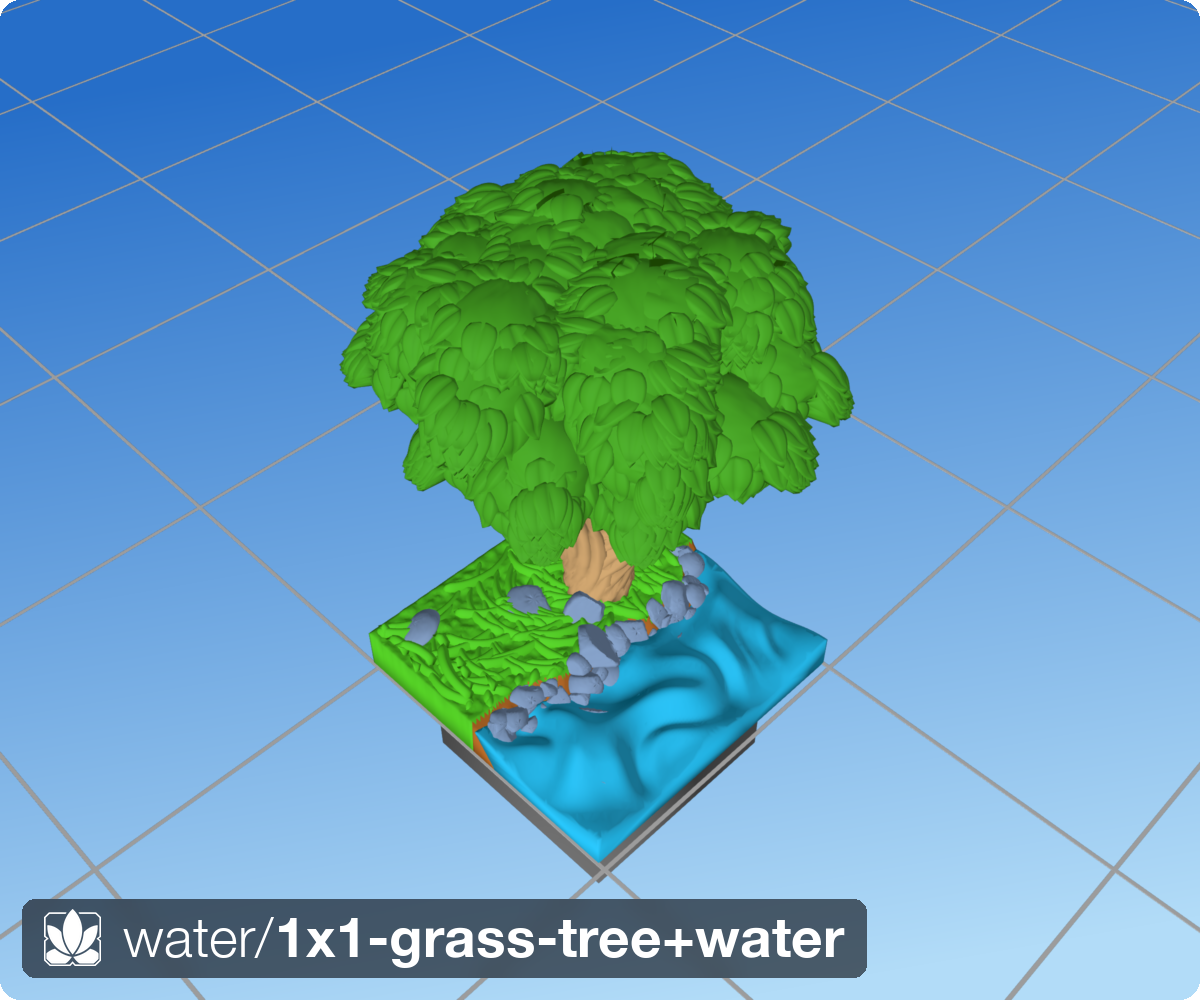
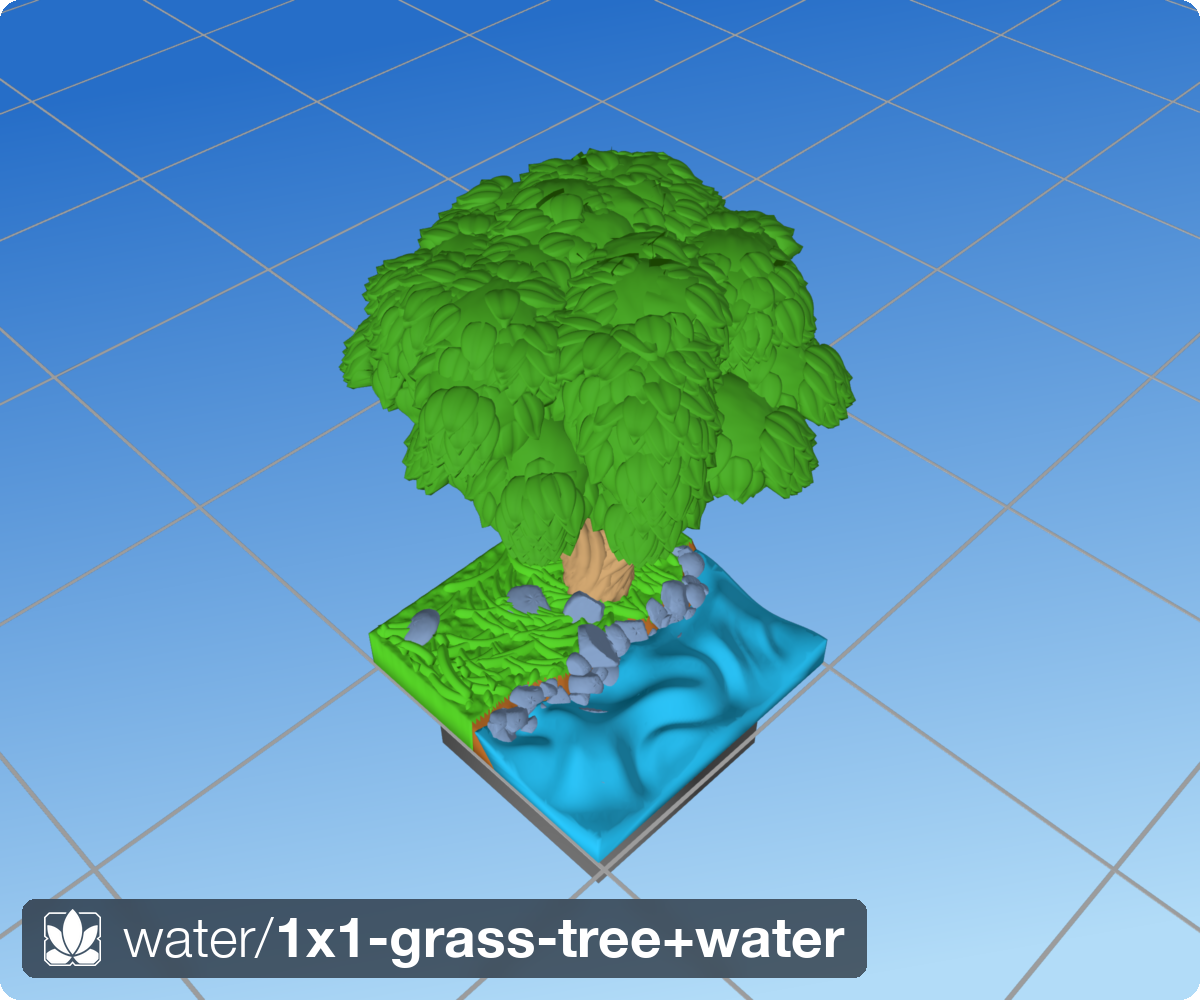
Update tree leaf cap mesh

diff --git a/src/dharmatiles/trees/mesh.py b/src/dharmatiles/trees/mesh.py
@@ -1158,21 +1158,105 @@ def _build_foliage_cluster_mesh(
                     cluster_radius_mm=r_tip,
                 )
 
-        # Cap: random leaves spread over the apex polar zone.
+        # Cap: structured polar rings over the apex zone.  This used to be
+        # random polar scatter, which could place two cap leaves almost on top
+        # of each other even when the main leaf field was a jittered grid.
         # Pass r_tip for the same reason as the near-apex rings: the forward
         # dome is a sphere of radius r_tip, so even near-polar leaves attach
         # correctly when the dome radius is used instead of the tiny ring radius.
-        for ci in range(max(0, int(leaf_cap_count))):
-            u_theta = _hash01(bark_seed, "cap-theta", edge_id, ci)
-            u_phi   = _hash01(bark_seed, "cap-phi",   edge_id, ci)
-            theta   = -np.pi + 2.0 * np.pi * u_theta            # full circle
-            phi     = (np.pi / 2.0) - (0.30 * np.pi / 2.0) * u_phi  # spread to ~63°
+        for ci, phi, theta in _structured_cap_leaf_angles(
+            max(0, int(leaf_cap_count)),
+            pos_jitter=pj,
+            row_step=row_step,
+            col_step=col_step,
+            r_tip=r_tip,
+            bark_seed=bark_seed,
+            edge_id=edge_id,
+        ):
             base_smooth, radial, _ = _dome_point(phi, theta)
             _emit_leaf(base_smooth, radial, ("cap", ci), cluster_radius_mm=r_tip)
 
     result = trimesh.Trimesh(vertices=verts, faces=ico.faces.copy(), process=False)
     result.fix_normals()
     return result, leaf_parts
+
+
+def _structured_cap_leaf_angles(
+    count: int,
+    *,
+    pos_jitter: float,
+    row_step: float,
+    col_step: float,
+    r_tip: float,
+    bark_seed: int,
+    edge_id: int,
+) -> list[tuple[int, float, float]]:
+    """Return deterministic jittered-ring cap positions as ``(idx, phi, theta)``.
+
+    ``phi`` is the forward-dome polar angle used by ``_dome_point`` where
+    ``pi/2`` is the apex.  The cap covers the same top 30% polar band as the
+    previous random sampler, but each leaf now owns a row/column cell and jitter
+    is clamped so it cannot cross into a neighbour's cell.
+    """
+    count = int(count)
+    if count <= 0:
+        return []
+
+    r_tip = max(float(r_tip), 1e-6)
+    pj = max(0.0, float(pos_jitter))
+
+    phi_min = 0.70 * (np.pi / 2.0)
+    phi_max = 0.98 * (np.pi / 2.0)
+    band = phi_max - phi_min
+
+    # Keep small caps as one clean ring; larger caps get more rows.  For the
+    # common 12-leaf cap this yields two rings, with columns weighted by the
+    # circumference at each ring.
+    n_rows = max(1, min(count, int(round(np.sqrt(count / 3.0)))))
+    row_phis = np.array([
+        phi_min + ((ri + 0.5) / n_rows) * band
+        for ri in range(n_rows)
+    ], dtype=float)
+    weights = np.maximum(np.cos(row_phis), 1e-3)
+    raw = weights / float(weights.sum()) * count
+    cols = np.maximum(1, np.floor(raw).astype(int))
+
+    while int(cols.sum()) > count:
+        candidates = np.where(cols > 1)[0]
+        if len(candidates) == 0:
+            break
+        frac = raw[candidates] - np.floor(raw[candidates])
+        cols[candidates[int(np.argmin(frac))]] -= 1
+    while int(cols.sum()) < count:
+        frac = raw - np.floor(raw)
+        cols[int(np.argmax(frac))] += 1
+
+    result: list[tuple[int, float, float]] = []
+    cap_i = 0
+    row_gap = band / max(n_rows, 1)
+    max_phi_jit = 0.45 * row_gap
+    requested_phi_jit = pj * float(row_step) / r_tip
+
+    for ri, (phi_center, n_col) in enumerate(zip(row_phis, cols)):
+        n_col = int(n_col)
+        theta_step = 2.0 * np.pi / n_col
+        max_theta_jit = 0.45 * theta_step
+        requested_theta_jit = pj * float(col_step) / max(r_tip * np.cos(phi_center), 1e-6)
+        # Offset alternating cap rows half a cell, matching the main grid.
+        stagger = 0.5 * (ri % 2)
+        for ci in range(n_col):
+            phi_jit = (
+                2.0 * _hash01(bark_seed, "cap-ring-phi", edge_id, ri, ci) - 1.0
+            ) * min(requested_phi_jit, max_phi_jit)
+            theta_jit = (
+                2.0 * _hash01(bark_seed, "cap-ring-theta", edge_id, ri, ci) - 1.0
+            ) * min(requested_theta_jit, max_theta_jit)
+            phi = float(np.clip(phi_center + phi_jit, phi_min, phi_max))
+            theta = -np.pi + (ci + 0.5 + stagger) * theta_step + theta_jit
+            result.append((cap_i, phi, _wrap_angle(theta)))
+            cap_i += 1
+
+    return result
 
 
 # ── Bark helpers ──────────────────────────────────────────────────────────────

diff --git a/tests/test_tree_leaf_cap.py b/tests/test_tree_leaf_cap.py
@@ -1,0 +1,37 @@
+import numpy as np
+
+from dharmatiles.trees.mesh import _structured_cap_leaf_angles
+
+
+def _sphere_points(angles: list[tuple[int, float, float]], radius: float) -> np.ndarray:
+    pts = []
+    for _idx, phi, theta in angles:
+        rr = radius * np.cos(phi)
+        pts.append([
+            radius * np.sin(phi),
+            rr * np.cos(theta),
+            rr * np.sin(theta),
+        ])
+    return np.asarray(pts, dtype=float)
+
+
+def test_leaf_cap_positions_are_structured_not_random_clusters() -> None:
+    radius = 5.5
+    angles = _structured_cap_leaf_angles(
+        12,
+        pos_jitter=0.075,
+        row_step=4.5 * (1.0 - 0.25),
+        col_step=3.0 * (1.0 - 0.10),
+        r_tip=radius,
+        bark_seed=123,
+        edge_id=7,
+    )
+
+    assert len(angles) == 12
+
+    points = _sphere_points(angles, radius)
+    deltas = points[:, None, :] - points[None, :, :]
+    distances = np.linalg.norm(deltas, axis=2)
+    distances[distances == 0.0] = np.inf
+
+    assert float(distances.min()) > 0.75
